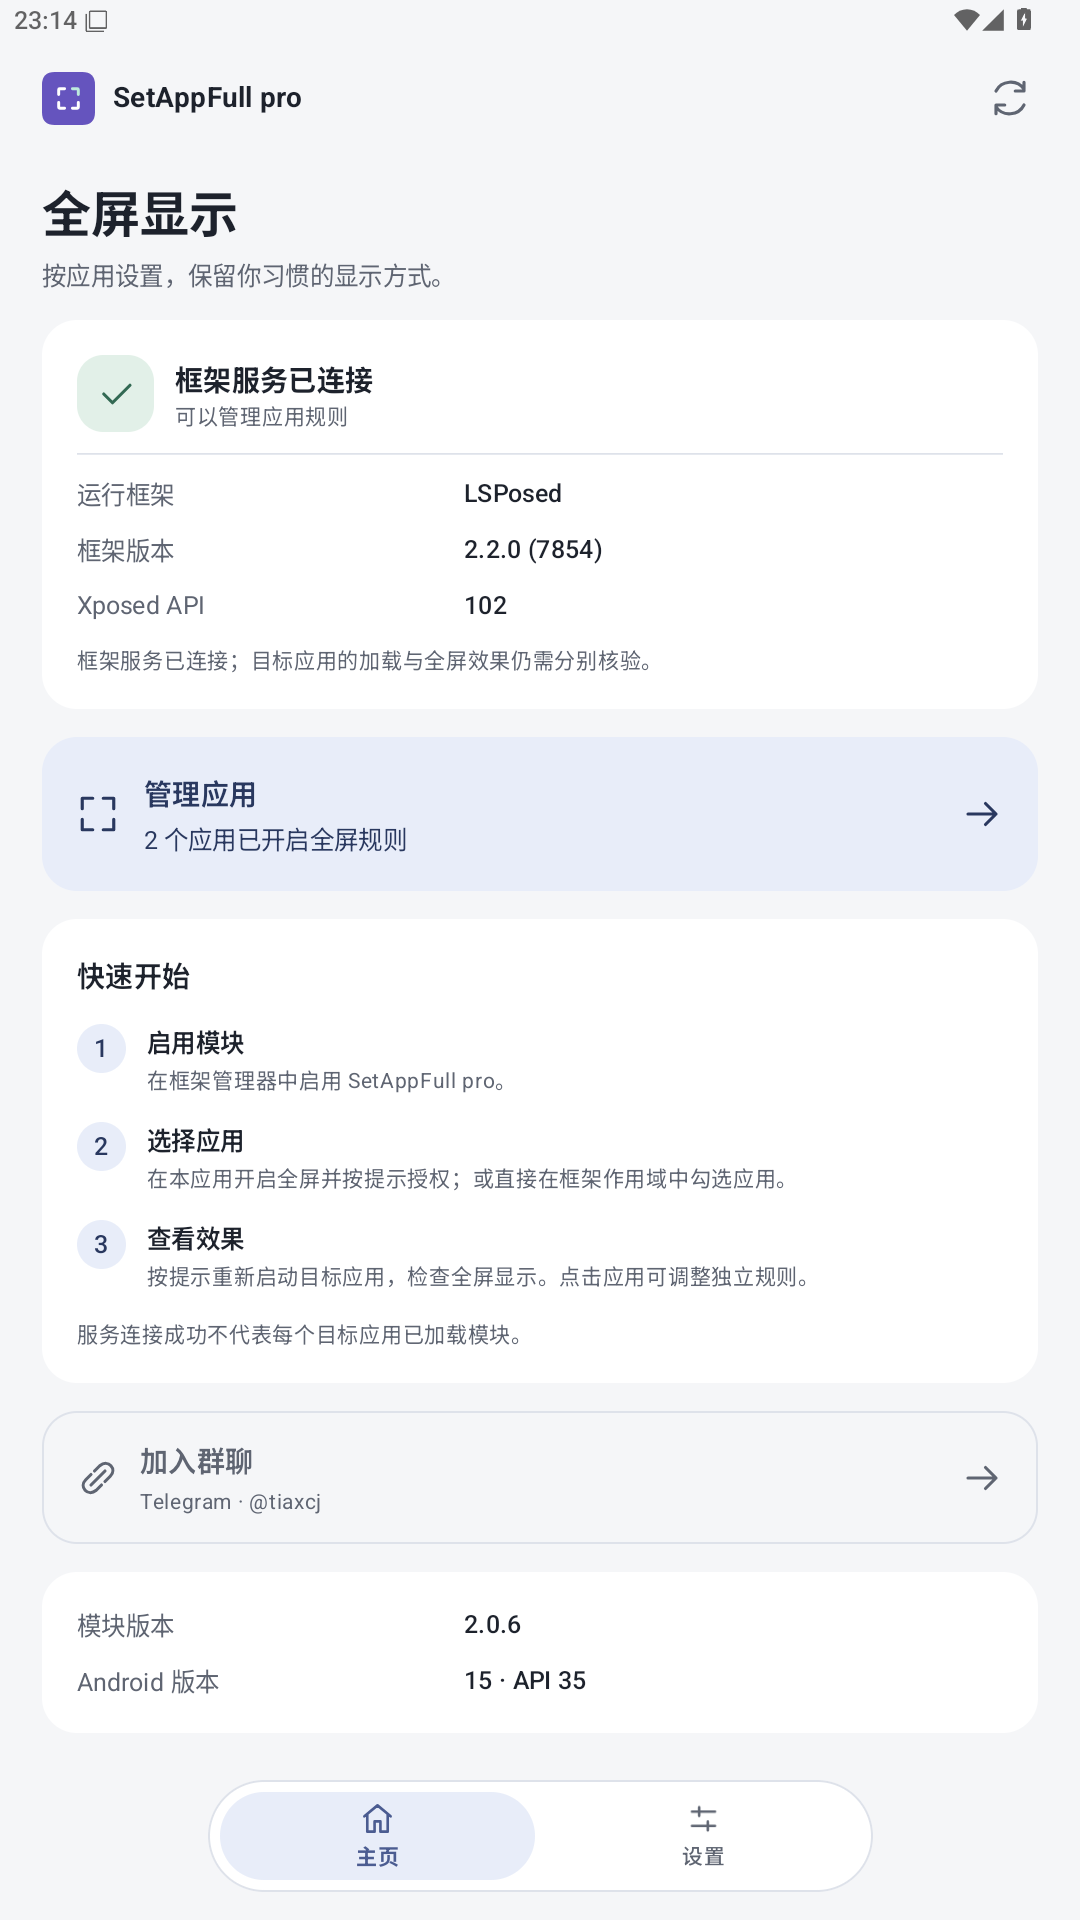
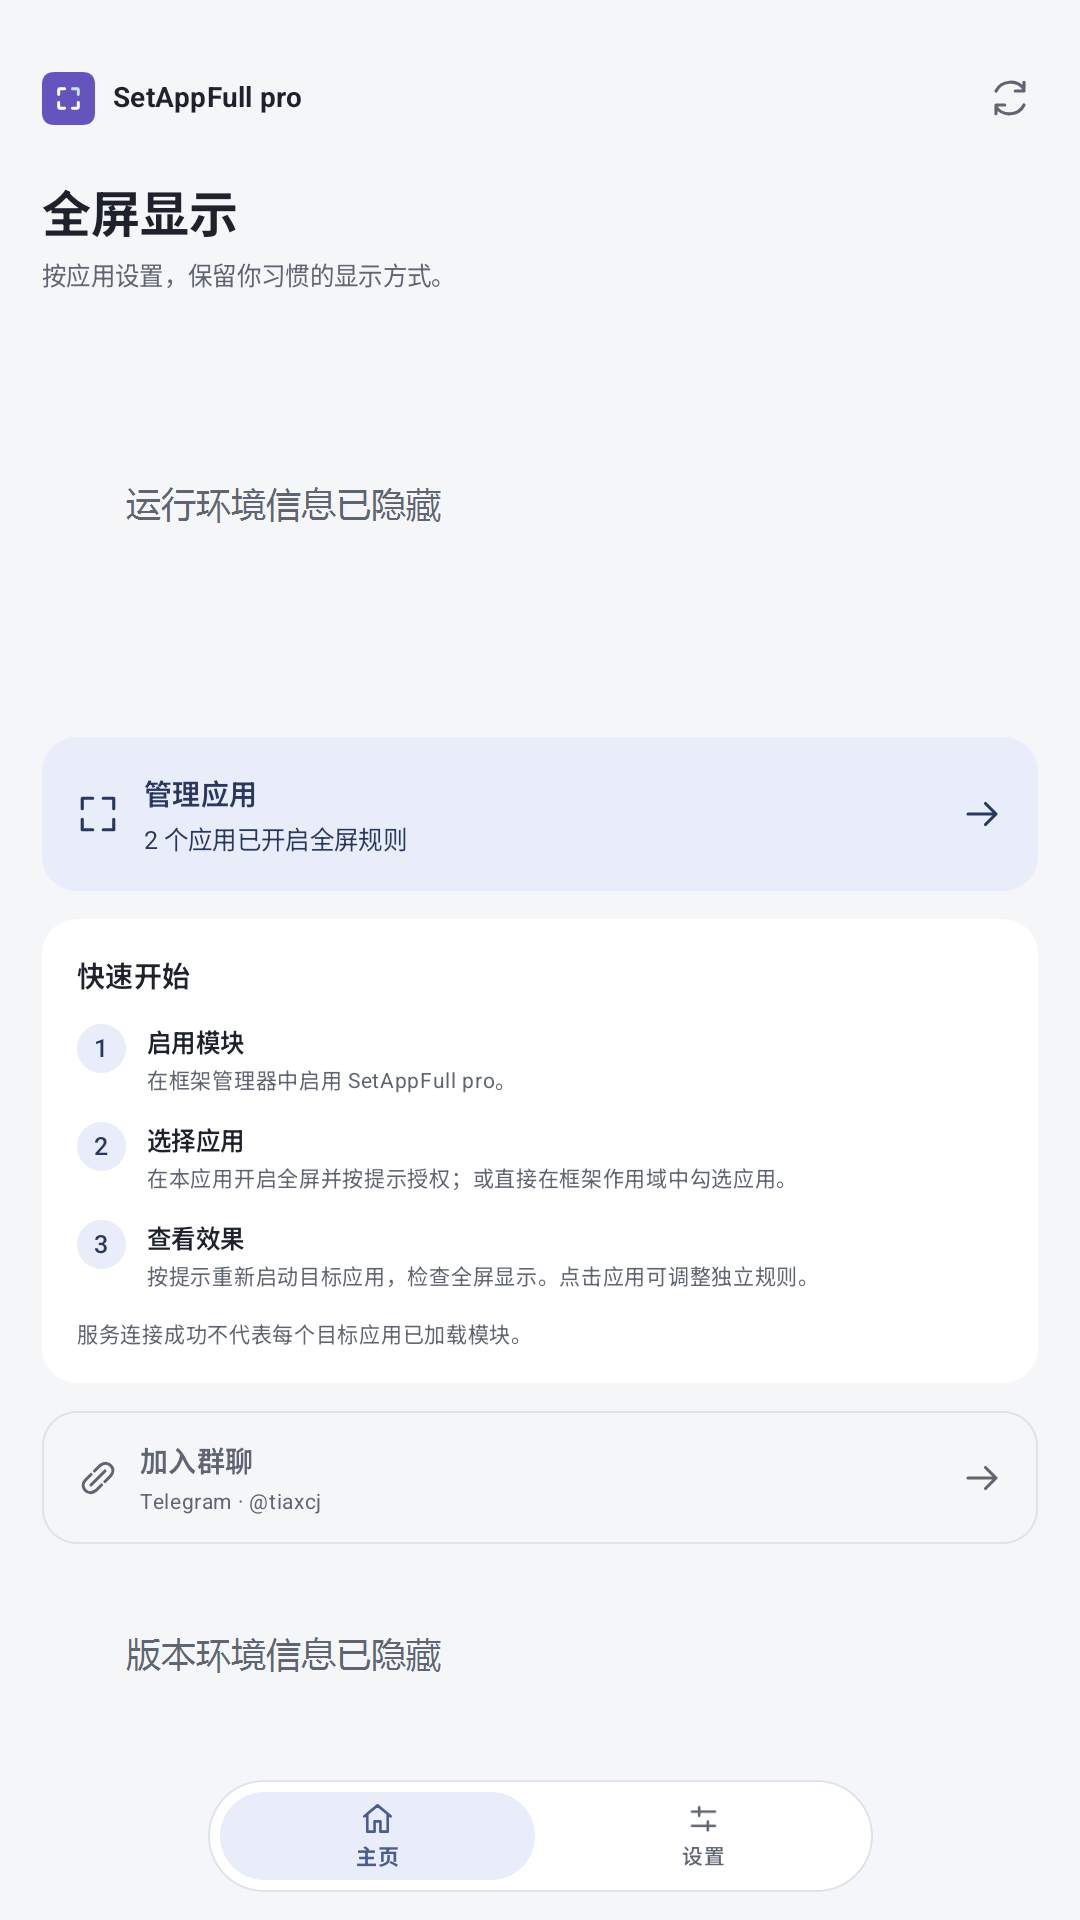
Remove machine-specific paths and public environment reports

diff --git a/docs/VERIFICATION_EN.md b/docs/VERIFICATION_EN.md
@@ -1,29 +1,12 @@
-# SetAppFull pro 2.0.6 Verification
+# Compatibility Notes
 
 [简体中文](VERIFICATION.md) | [English](VERIFICATION_EN.md)
 
-Version: 2.0.6 / 206; package: `io.github.tianxing226.setappfullpro`.
-
[1 lines of base64/hex data omitted]
-
-Build source: `56be99fa31f83220babbeebe45bd8fd4cea288bc`, clean working tree. Later documentation commits do not change the APK.
-
-## Completed
-
-- 38 JVM unit tests passed; 26 Android/Compose instrumentation tests passed during development using a Debug build.
-- Release build, signature, ZIP alignment and included native-library 16 KiB alignment checks passed. Release lint reported 0 errors and 22 warnings.
-- The same signed Release APK ran on an Android 17 phone and MuMu Android 15 with LSPosed 2.2.1 / 2.2.0, both API 102. In-place phone upgrade retained the seven existing configured apps.
-- MuMu: framework scope alone with no rule applied default 15; in-app enable requested authorization, rejection did not loop, explicit retry and approval worked. Offline disable, reconnection sync, reset, scope removal and re-addition passed.
-- MuMu: View, Compose, WebView, SurfaceView, IME open/close, floating dialog, light/dark themes, small-screen large fonts and scrollable landscape layouts passed.
-- Phone with Bilibili 9.13.0: the Story top band changed from 104 px to 0 px. Disabling the adapter restored 104 px; enabling restored 0 px. Immersive mode, pause/resume, background return, comments/keyboard, standard video details and landscape playback were checked. Normal landscape aspect-ratio borders remain.
-- Display regression checks covered Probe, MT Manager, the phone calculator and Douyin. The Bilibili adapter does not run for these packages.
-
-## Scope and limitations
-
-- Bilibili 9.14.0 on MuMu had startup ANRs with the same Gripper initialization wait stack seen with the old module and with the module disabled. Clearing data temporarily allowed playback, but cold-start failures recurred: **9.14.0 playback acceptance on this emulator did not pass**. Version 9.13.0 reached Story playback after installation; emulator decoding does not substitute for phone image-quality verification.
-- The 9.13.0 Story and standard details Activities do not declare native Android picture-in-picture support, so native PiP is not counted as runtime-tested there. PiP/multi-window policy suspension has unit coverage, not a complete vendor-device matrix.
-- API 101, all Android versions, FusionApp, VPN compatibility and DRM were not fully rerun. YouTube did not load video content during the check and is not counted as playback passed.
-- Native aspect-ratio or encoded black borders can remain. The adapter removes known reserved space without changing the player's native scaling policy; unknown player versions fall back.
-- New scopes usually require restarting the target app. Framework authorization, module loading and actual visual behavior are distinct states.
+- Requires Android 11 or later and a modern LSPosed / libxposed-compatible framework (API 101 or 102).
+- The framework controls scope authorization. A newly scoped app usually needs restarting; saving a rule does not mean the module is already loaded.
+- Existing custom rules, explicit disables and resets take precedence over scoped defaults.
+- Multi-window, picture-in-picture and floating windows suspend fullscreen policies. Navigation-bar control is released while the keyboard is visible.
+- Bilibili playback optimization is limited to designated player pages in known versions and can be disabled independently. Version 9.14.0 may have startup issues in some environments and is not guaranteed compatible; unknown versions retain native behavior.
+- Native aspect-ratio borders, encoded black bars, DRM and hardware protection may remain. Screenshot and VPN-detection compatibility options are off by default.
 
 [Back to usage](../README_EN.md)

diff --git a/docs/VERIFICATION.md b/docs/VERIFICATION.md
@@ -1,29 +1,12 @@
-# SetAppFull pro 2.0.6 验证说明
+# 兼容说明
 
 [简体中文](VERIFICATION.md) | [English](VERIFICATION_EN.md)
 
-版本：2.0.6 / 206；包名：`io.github.tianxing226.setappfullpro`。
-
[1 lines of base64/hex data omitted]
-
-构建源码：`56be99fa31f83220babbeebe45bd8fd4cea288bc`，工作区干净；后续文档提交不改变 APK。
-
-## 已完成
-
-- 38 项 JVM 单元测试通过；开发阶段 26 项 Android/Compose 仪器测试通过（Debug 包）。
-- 正式包构建、签名、ZIP 对齐和所含原生库 16 KiB 对齐检查通过；Release lint 为 0 错误、22 条警告。
-- 同一正式签名包在 Android 17 真机和 MuMu Android 15 上运行；框架分别为 LSPosed 2.2.1 / 2.2.0，均为 API 102。真机覆盖升级保留原有 7 个应用配置。
-- MuMu：只勾选作用域且没有规则的应用默认采用 15；应用内开启后自动请求作用域，拒绝不重复请求，明确重试并批准后生效；离线关闭、重连同步、重置、移除后重新加入作用域均检查通过。
-- MuMu：View、Compose、WebView、SurfaceView、输入法出现/关闭、浮动对话框，以及浅深色、小屏大字体、横屏可滚动布局检查通过。
-- 真机哔哩哔哩 9.13.0：Story 顶部纯黑带由 104 px 降为 0 px；关闭专项开关恢复 104 px，重新开启恢复 0 px。沉浸模式、暂停恢复、后台返回、评论/输入法、普通视频详情页和横屏播放已检查。横屏视频正常比例留边保留。
-- 普通应用和视频应用回归：Probe、MT 管理器、真机计算器和抖音显示检查通过；哔哩哔哩专项处理不应用于这些包。
-
-## 范围与限制
-
-- MuMu 的哔哩哔哩 9.14.0 出现启动 ANR；旧版本模块和未启用模块时也有相同的 Gripper 初始化等待堆栈。清理数据后曾能播放，但冷启动仍复现，因此 **9.14.0 在该模拟器上的播放验收未通过**。换用 9.13.0 后完成 Story 播放界面检查；模拟器解码不能替代真机的画面质量验证。
-- 9.13.0 的 Story/普通详情 Activity 未声明 Android 原生画中画支持，未将其记为画中画实测通过。画中画/多窗口暂停策略有单元测试，不能代替所有厂商多窗口实测。
-- 本轮没有重新完成 API 101、所有 Android 版本、FusionApp、VPN 检测兼容和 DRM 场景的完整矩阵；YouTube 当时未加载视频内容，不计为播放通过。
-- 视频原生比例留边及内嵌黑边可能保留。专项适配只修正已知播放器预留空间，不修改其原生缩放比例策略；未知播放器版本回退。
-- 新增作用域通常需要重启目标应用。框架授权、模块加载与实际显示效果是不同状态。
+- 需要 Android 11 或更新版本及现代 LSPosed / libxposed 兼容框架（API 101 或 102）。
+- 作用域授权由框架管理。首次加入作用域后通常需要重启目标应用，保存规则不等于模块已加载。
+- 已有自定义、明确关闭和重置结果优先于作用域默认规则。
+- 多窗口、画中画和浮动窗口暂停全屏策略；输入法出现时释放导航栏控制。
+- 哔哩哔哩播放页优化仅针对已知版本的指定播放页面，可独立关闭。9.14.0 在部分环境中可能出现启动问题，暂不保证兼容；未知版本保留原播放器行为。
+- 播放器自身的比例留边、内嵌黑边、DRM 和硬件保护不保证消除。允许截屏及 VPN 检测兼容默认关闭。
 
 [返回使用说明](../README.md)

diff --git a/README_EN.md b/README_EN.md
@@ -4,7 +4,7 @@
 
 An Android module for **immersive fullscreen per app**, with separate controls for the status bar, navigation bar, and display cutout. Supports modern LSPosed / libxposed APIs 101 and 102.
 
-**[Download the release APK](https://github.com/tianxing226/SetAppFull-pro/releases/latest)** · [Telegram channel](https://t.me/tiaxcj) · [Verification notes](docs/VERIFICATION_EN.md)
+**[Download the release APK](https://github.com/tianxing226/SetAppFull-pro/releases/latest)** · [Telegram channel](https://t.me/tiaxcj) · [Compatibility notes](docs/VERIFICATION_EN.md)
 
 This is an independently maintained fork of [cokkeijigen/SetAppFull](https://github.com/cokkeijigen/SetAppFull), not a release published by the original author.
 
@@ -56,20 +56,9 @@ The package name is `io.github.tianxing226.setappfullpro`. Versions 2.0.2 and la
 
 Fullscreen policies pause in multi-window, picture-in-picture, and floating windows. Navigation bar control is released when the keyboard appears. App-drawn black bars and security restrictions may remain.
 
-The Bilibili adjustment is restricted to `tv.danmaku.bili`. The new Story player adapter recognizes version codes `9130500` and `9140400` in portrait fullscreen, with fullscreen, hidden status bar, and cutout access enabled. Unknown versions retain their original player behavior. Disable “哔哩哔哩播放页优化” (Bilibili playback optimization) in the app's rule details to opt out. The adapter retains the player's native aspect-ratio policy without forced stretching; native cropping, aspect-ratio letterboxing and encoded borders may remain. See the verification notes for the 9.14.0 MuMu startup limitation.
+The Bilibili adjustment is restricted to `tv.danmaku.bili`. The new Story player adapter recognizes version codes `9130500` and `9140400` in portrait fullscreen, with fullscreen, hidden status bar, and cutout access enabled. Unknown versions retain their original player behavior. Disable “哔哩哔哩播放页优化” (Bilibili playback optimization) in the app's rule details to opt out. The adapter retains the player's native aspect-ratio policy without forced stretching; native cropping, aspect-ratio letterboxing and encoded borders may remain. Version 9.14.0 may have startup issues in some environments and is not guaranteed compatible.
 
-See the [verification notes](docs/VERIFICATION_EN.md) for the devices, frameworks, and app versions actually tested, including unverified cases. Implemented functionality does not imply that every environment has passed acceptance testing.
-
-## Build from source
-
-Place the source in `F:\SetAppFull\source`, then run PowerShell from that directory:
-
-```powershell
-.\scripts\setup-toolchain.ps1
-.\scripts\build.ps1 -Tasks ':app:testDebugUnitTest', ':app:lintRelease', ':app:assembleRelease'
-```
-
-The scripts keep tools, caches, temporary files, logs, and build output under `F:\SetAppFull`. Release builds require `F:\SetAppFull\signing\release.properties` and the matching release key; upgrades must keep the same signature. The APK is written to `F:\SetAppFull\build\app\outputs\apk\release`. For local debugging, run `.\scripts\build.ps1` without arguments. Debug testing does not replace acceptance testing of the release APK.
+See the [compatibility notes](docs/VERIFICATION_EN.md) for limitations.
 
 ## Source and credits
 

diff --git a/README.md b/README.md
@@ -4,7 +4,7 @@
 
 按应用设置**沉浸式全屏**的 Android 模块，独立控制状态栏、导航栏和挖孔区域。支持现代 LSPosed / libxposed API 101、102。
 
-**[下载正式版 APK](https://github.com/tianxing226/SetAppFull-pro/releases/latest)** · [Telegram 频道](https://t.me/tiaxcj) · [验证说明](docs/VERIFICATION.md)
+**[下载正式版 APK](https://github.com/tianxing226/SetAppFull-pro/releases/latest)** · [Telegram 频道](https://t.me/tiaxcj) · [兼容说明](docs/VERIFICATION.md)
 
 本项目是 [cokkeijigen/SetAppFull](https://github.com/cokkeijigen/SetAppFull) 的独立维护分支，不是原作者发布的版本。
 
@@ -56,20 +56,9 @@
 
 多窗口、画中画和浮动窗口会暂停全屏策略，输入法出现时释放导航栏控制。应用自身绘制的黑边和安全限制不保证消除。
 
-哔哩哔哩专项处理仅针对 `tv.danmaku.bili`。新增的 Story 播放器适配限于版本代码 `9130500`、`9140400` 的竖屏全屏场景，需开启全屏、隐藏状态栏和延伸至挖孔区域；未知版本保留原播放器行为。可在应用详情中关闭“哔哩哔哩播放页优化”。适配保持播放器原有比例策略，不强制拉伸；播放器原生裁切、宽高比留边及视频内嵌黑边仍可能存在。9.14.0 的 MuMu 启动限制见验证说明。
+哔哩哔哩专项处理仅针对 `tv.danmaku.bili`。新增的 Story 播放器适配限于版本代码 `9130500`、`9140400` 的竖屏全屏场景，需开启全屏、隐藏状态栏和延伸至挖孔区域；未知版本保留原播放器行为。可在应用详情中关闭“哔哩哔哩播放页优化”。适配保持播放器原有比例策略，不强制拉伸；播放器原生裁切、宽高比留边及视频内嵌黑边仍可能存在。9.14.0 在部分环境中可能出现启动问题，暂不保证兼容。
 
-不同设备、框架和应用版本的实际测试范围、未验证项见 [验证说明](docs/VERIFICATION.md)，功能已实现不代表所有环境均已通过验收。
-
-## 从源码构建
-
-将源码放在 `F:\SetAppFull\source`，在该目录运行 PowerShell：
-
-```powershell
-.\scripts\setup-toolchain.ps1
-.\scripts\build.ps1 -Tasks ':app:testDebugUnitTest', ':app:lintRelease', ':app:assembleRelease'
-```
-
-脚本把工具、缓存、临时文件、日志和构建输出集中到 `F:\SetAppFull`。Release 构建需要 `F:\SetAppFull\signing\release.properties` 及对应发布密钥；覆盖升级必须使用相同签名。APK 输出在 `F:\SetAppFull\build\app\outputs\apk\release`。仅本地调试可运行 `.\scripts\build.ps1`，调试包不替代正式包验收。
+详细限制见[兼容说明](docs/VERIFICATION.md)。
 
 ## 源码与致谢
 
